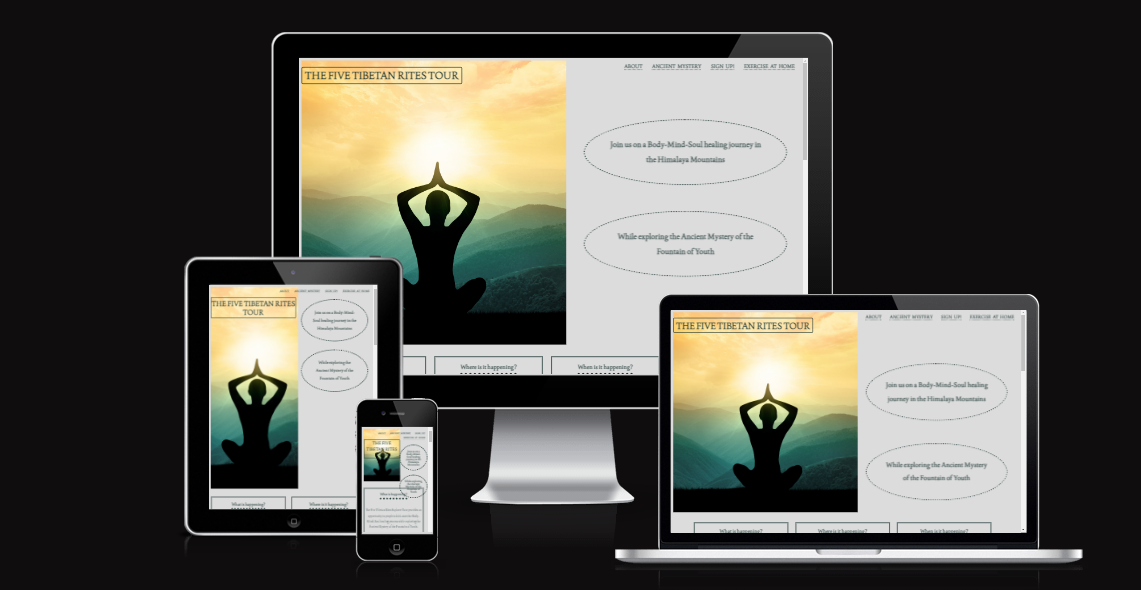
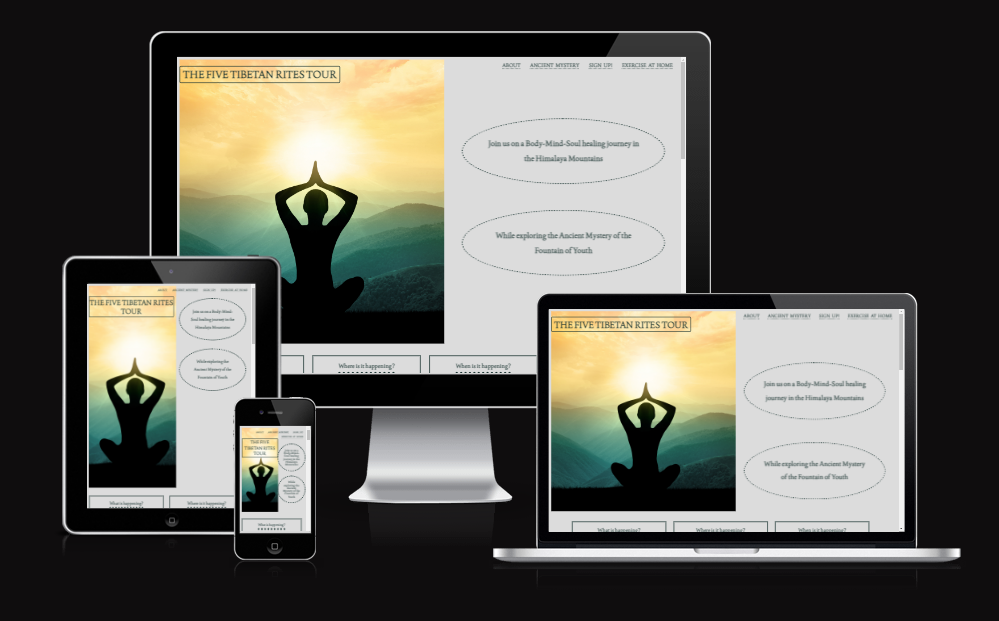
Add image showing responsive for README file

diff --git a/README.md b/README.md
@@ -8,3 +8,5 @@ Users accessing the website will find all necessary information they'll need to 
 - Ancient Mystery (Holding the Ancient Mystery story about the Fountain of Youth as presented by Peter Kelder in his book: Ancient Secret of the Fountain of Youth)
 - Sign Up form
 - Exercise at home (Listing all 5 yoga exercises and step by step explanation with images on how to practice them)
+
+![responsive image](/assets/images/responsive.png)
